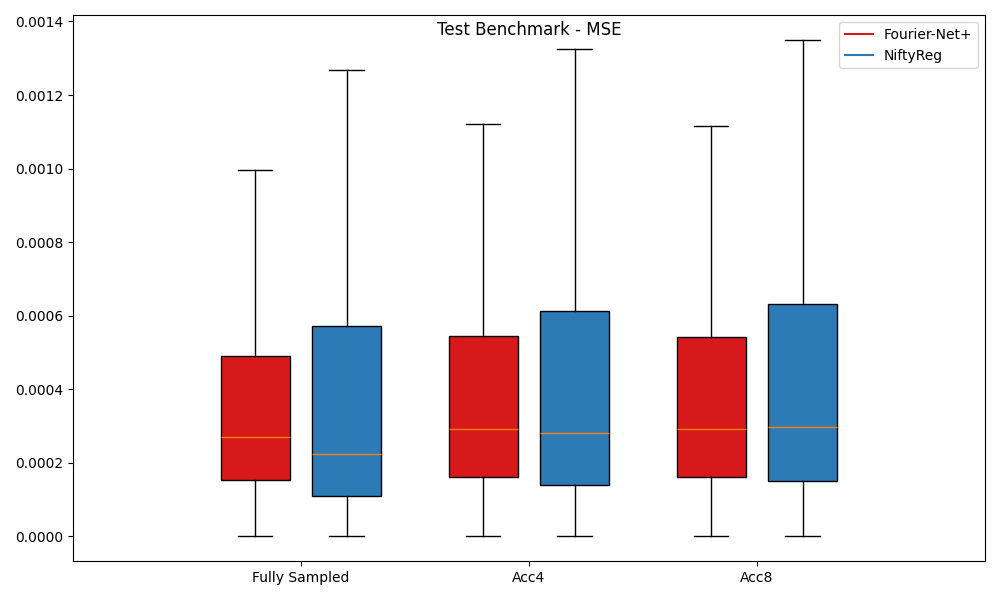
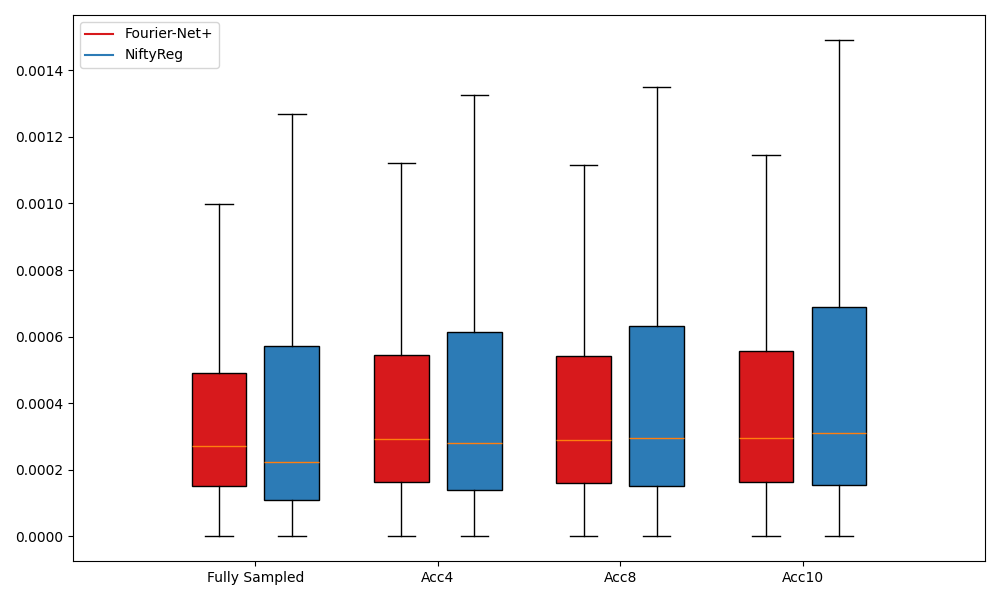
Added default values for create_AB_boxplot() in Functions.py and extended TestBenchmarks_Boxplots.py to also include the Acc10 data as well as adding the created boxplots for the MSE and SSIM test results to the thesis.

diff --git a/2D_CMR_Registration/TestBenchmarks_Boxplots.py b/2D_CMR_Registration/TestBenchmarks_Boxplots.py
@@ -41,7 +41,7 @@ diffeo_name = 0
 if diffeo:
     diffeo_name = 1
 
-modes = [0,1,2] #,3   # modes for box plot
+modes = [0,1,2,3]  # modes for box plot
 # init MSE and SSIM for 4 modes, 2 methods and 9669 data points
 MSE = np.zeros([4,2,9669])
 SSIM = np.zeros([4,2,9669])
@@ -55,35 +55,50 @@ for mode in modes:
     with open(path+model_path,'r') as csvfile: 
         lines = csv.reader(csvfile, delimiter=',') 
         for i, row in enumerate(lines): 
-            if i>0 and i<MSE.shape[2]:
-                MSE[mode,0,i] = float(row[1])
-                SSIM[mode,0,i] = float(row[2])
+            if mode == 3:
+                if i>0 and i<9559:              # Acc10 has slightly less data
+                    MSE[mode,0,i] = float(row[1])
+                    SSIM[mode,0,i] = float(row[2])
+            else:    
+                if i>0 and i<MSE.shape[2]:      # rest should have 9669
+                    MSE[mode,0,i] = float(row[1])
+                    SSIM[mode,0,i] = float(row[2])
 
     # get data for NiftyReg            
     with open(path+nifty_path,'r') as csvfile: 
         lines = csv.reader(csvfile, delimiter=',') 
         for i, row in enumerate(lines): 
-            if i>0 and i<MSE.shape[2]:
-                MSE[mode,1,i] = float(row[1])
-                SSIM[mode,1,i] = float(row[2])
+            if mode == 3:
+                if i>0 and i<9559:              # Acc10 has slightly less data
+                    MSE[mode,1,i] = float(row[1])
+                    SSIM[mode,1,i] = float(row[2])
+            else:    
+                if i>0 and i<MSE.shape[2]:      # rest should have 9669 
+                    MSE[mode,1,i] = float(row[1])
+                    SSIM[mode,1,i] = float(row[2])
 
 # sort MSE data for box plot
-data_model = [MSE[0,0,:], MSE[1,0,:], MSE[2,0,:]]
-data_NiftyReg = [MSE[0,1,:], MSE[1,1,:], MSE[2,1,:]]
-# create labels for the x axis
-labels = ['Fully Sampled', 'Acc4', 'Acc8']
-# create path to save the boxplot to
-save_path = '/home/jmeyer/storage/students/janmeyer_711878/Master-Arbeit/Thesis/Images/TestBenchmark_MSE_Boxplots.png'
-# create boxplot
-create_AB_boxplot(savename=save_path, title='Test Benchmark - MSE', data_A=data_model, data_B=data_NiftyReg, labels=labels,figure_size=(10, 6))
+data_model_MSE = [MSE[0,0,:], MSE[1,0,:], MSE[2,0,:], MSE[3,0,:][0:9559]]
+data_NiftyReg_MSE = [MSE[0,1,:], MSE[1,1,:], MSE[2,1,:], MSE[3,1,:][0:9559]]
 
 # sort SSIM data for box plot
-data_model = [SSIM[0,0,:], SSIM[1,0,:], SSIM[2,0,:]]
-data_NiftyReg = [SSIM[0,1,:], SSIM[1,1,:], SSIM[2,1,:]]
+data_model_SSIM = [SSIM[0,0,:], SSIM[1,0,:], SSIM[2,0,:], SSIM[3,0,:][0:9559]]
+data_NiftyReg_SSIM = [SSIM[0,1,:], SSIM[1,1,:], SSIM[2,1,:], SSIM[3,1,:][0:9559]]
+
 # create labels for the x axis
-labels = ['Fully Sampled', 'Acc4', 'Acc8']
+labels = ['Fully Sampled', 'Acc4', 'Acc8', 'Acc10']
+# create legend 
+legend = ['Fourier-Net+','NiftyReg']
+# create path to save the boxplot to
+save_path = '/home/jmeyer/storage/students/janmeyer_711878/Master-Arbeit/Thesis/Images/TestBenchmark_MSE_Boxplots.png'
+# create title
+#title='Test Benchmark - MSE'
+# create boxplot for MSE
+create_AB_boxplot(savename=save_path, data_A=data_model_MSE, data_B=data_NiftyReg_MSE, labels=labels, legend=legend, figure_size=(10, 6))
+
 # create path to save the boxplot to
 save_path = '/home/jmeyer/storage/students/janmeyer_711878/Master-Arbeit/Thesis/Images/TestBenchmark_SSIM_Boxplots.png'
-# create boxplot
-create_AB_boxplot(savename=save_path, title='Test Benchmark - SSIM', data_A=data_model, data_B=data_NiftyReg, labels=labels, figure_size=(10, 6))
-
+# create title
+# title = 'Test Benchmark - SSIM'
+# create boxplot for SSIM
+create_AB_boxplot(savename=save_path, data_A=data_model_SSIM, data_B=data_NiftyReg_SSIM, labels=labels, legend=legend, figure_size=(10, 6))

diff --git a/2D_CMR_Registration/Functions.py b/2D_CMR_Registration/Functions.py
@@ -567,7 +567,7 @@ def set_box_color(bp, color):
     plt.setp(bp['caps'], color=color)
     #plt.setp(bp['medians'], color=color)
 
-def create_AB_boxplot(savename, title, data_A, data_B, labels, figure_size):
+def create_AB_boxplot(savename=None, title=None, data_A=None, data_B=None, labels=None, legend=['A','B'], figure_size=(10,4)):
     ''' Create boxplots of A and B with legend and labels on the x-axis  '''
     plt.figure(figsize=figure_size)
     bpl = plt.boxplot(data_A, positions=np.array(range(len(data_A)))*2.0-0.4, sym='', widths=0.6, patch_artist=True)
@@ -580,12 +580,16 @@ def create_AB_boxplot(savename, title, data_A, data_B, labels, figure_size):
     plt.setp(bpr["boxes"], facecolor='#2C7BB6')
 
     # draw temporary red and blue lines and use them to create a legend
-    plt.plot([], c='#D7191C', label='Fourier-Net+')
-    plt.plot([], c='#2C7BB6', label='NiftyReg')
+    plt.plot([], c='#D7191C', label=legend[0])
+    plt.plot([], c='#2C7BB6', label=legend[1])
     plt.legend()
 
     plt.xticks(range(0, len(labels) * 2, 2), labels)
     plt.xlim(-2, len(labels)*2)
     plt.tight_layout()
-    plt.title(title, y=1.0, pad=-14)
-    plt.savefig(savename)    
+    if title != None:
+        plt.title(title, y=1.0, pad=-14)
+    if savename == None:
+        plt.savefig('boxplot.png')   
+    else:
+        plt.savefig(savename)    
